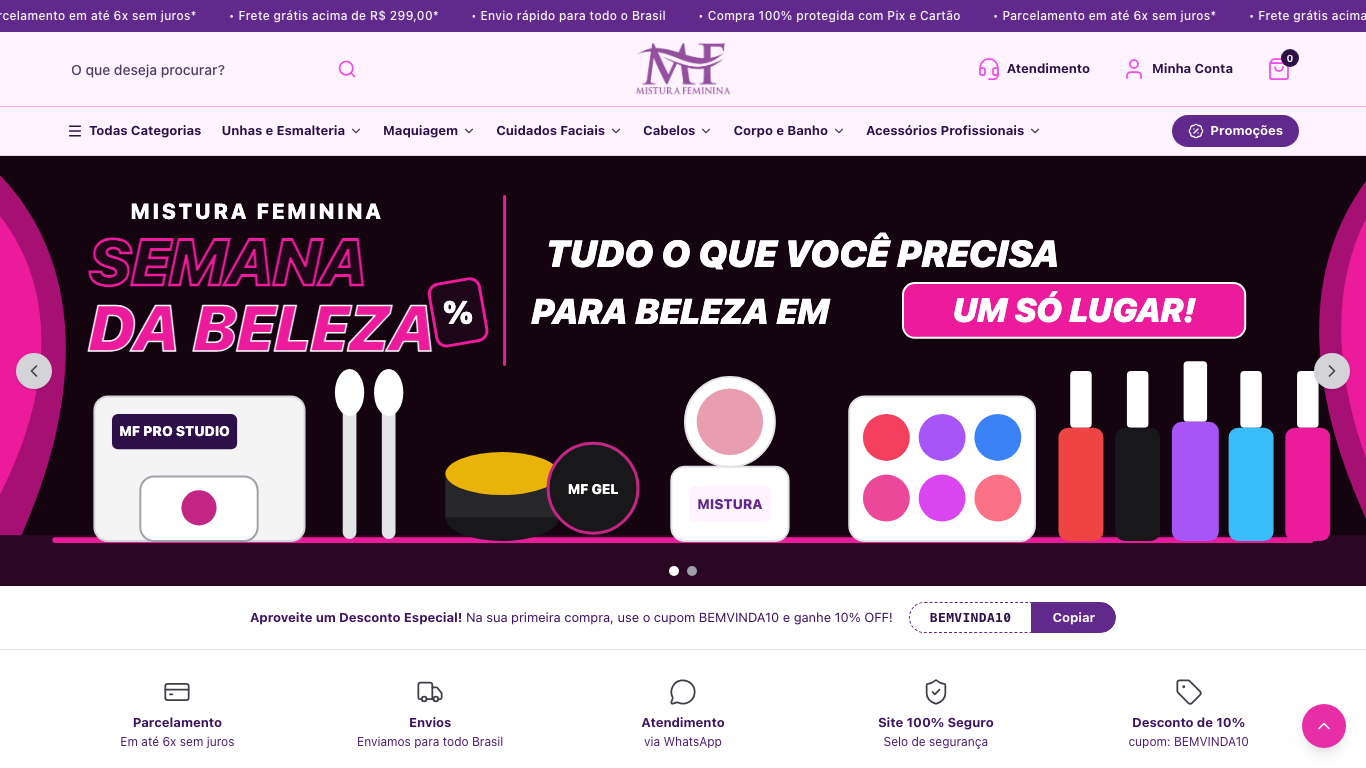
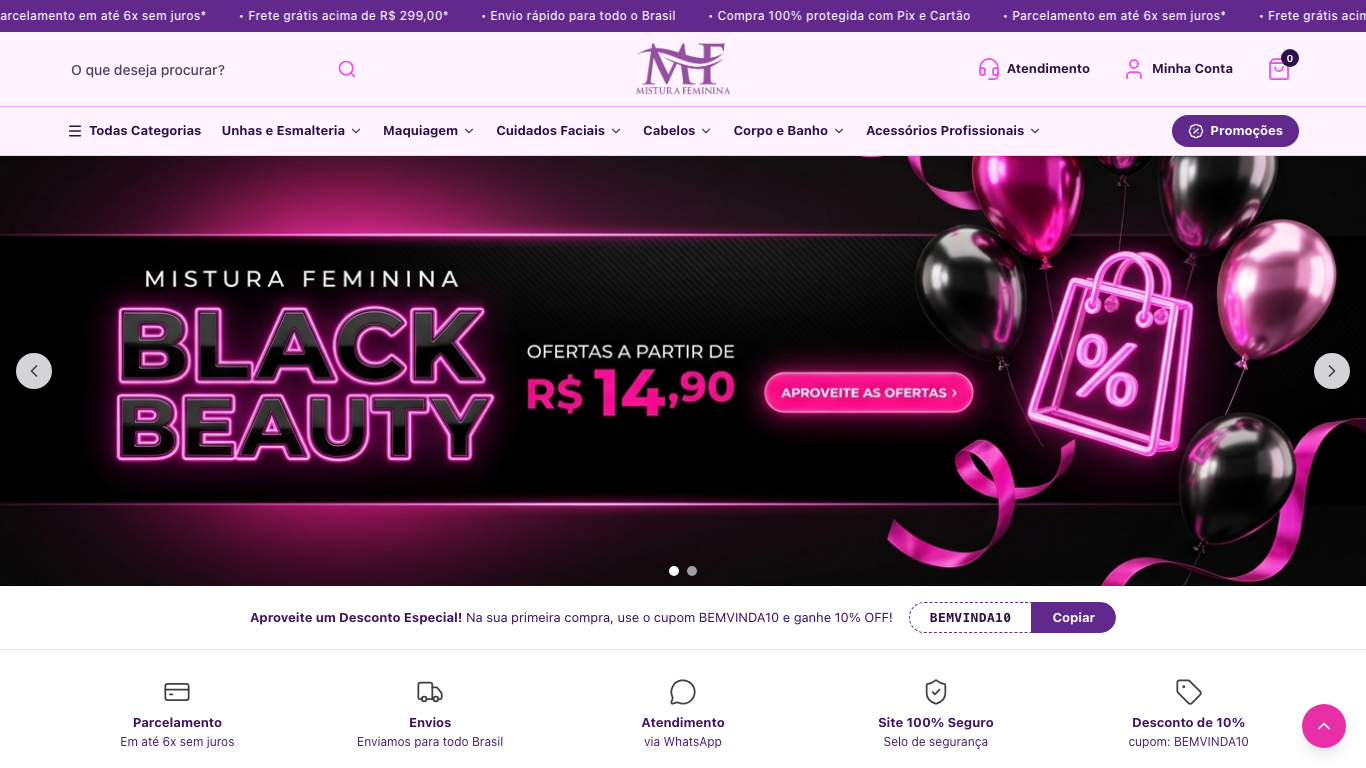
feat(assets): replace seed SVGs with real hero, promo, category and product photography

diff --git a/frontend/src/routes/index.tsx b/frontend/src/routes/index.tsx
@@ -128,7 +128,11 @@ function HeroCarouselBlock(props: { banners: BannerData[] }) {
                 <img
                   src={assetUrl(banner().desktop_image_path)}
                   alt={banner().alt_text || banner().title}
-                  class="block h-[220px] w-full object-cover object-center sm:h-[340px] lg:h-[430px]"
+                  class={
+                    banner().mobile_image_path
+                      ? "block aspect-[3/4] max-h-[520px] w-full object-cover object-center md:aspect-auto md:h-[360px] lg:h-[430px]"
+                      : "block h-[220px] w-full object-cover object-center sm:h-[340px] lg:h-[430px]"
+                  }
                 />
               </picture>
             );
@@ -765,7 +769,7 @@ function StorefrontHomePage() {
                           <img
                             src={assetUrl(banner.desktop_image_path)}
                             alt={banner.alt_text || banner.title}
-                            class="h-44 w-full object-cover sm:h-52"
+                            class="aspect-[5/2] w-full object-cover"
                             loading="lazy"
                           />
                         </a>

diff --git a/backend/database/seeders/DemoStoreSeeder.php b/backend/database/seeders/DemoStoreSeeder.php
@@ -445,12 +445,12 @@ class DemoStoreSeeder extends Seeder
     private function seedCategories(): array
     {
         $roots = [
-            ['slug' => 'unhas-e-esmalteria', 'name' => 'Unhas e Esmalteria', 'icon' => 'sparkles', 'image_path' => '/storage/seed/cat-unhas.svg', 'order' => 1],
-            ['slug' => 'maquiagem', 'name' => 'Maquiagem', 'icon' => 'heart', 'image_path' => '/storage/seed/cat-maquiagem.svg', 'order' => 2],
-            ['slug' => 'skincare', 'name' => 'Cuidados Faciais', 'icon' => 'droplet', 'image_path' => '/storage/seed/cat-facial.svg', 'order' => 3],
-            ['slug' => 'cabelos', 'name' => 'Cabelos', 'icon' => 'sun', 'image_path' => '/storage/seed/cat-cabelos.svg', 'order' => 4],
-            ['slug' => 'corpo-e-banho', 'name' => 'Corpo e Banho', 'icon' => 'flower', 'image_path' => '/storage/seed/cat-corpo.svg', 'order' => 5],
-            ['slug' => 'acessorios-pro', 'name' => 'Acessórios Profissionais', 'icon' => 'briefcase', 'image_path' => '/storage/seed/cat-acessorios.svg', 'order' => 6],
+            ['slug' => 'unhas-e-esmalteria', 'name' => 'Unhas e Esmalteria', 'icon' => 'sparkles', 'image_path' => '/storage/seed/cat-unhas.jpg', 'order' => 1],
+            ['slug' => 'maquiagem', 'name' => 'Maquiagem', 'icon' => 'heart', 'image_path' => '/storage/seed/cat-maquiagem.jpg', 'order' => 2],
+            ['slug' => 'skincare', 'name' => 'Cuidados Faciais', 'icon' => 'droplet', 'image_path' => '/storage/seed/cat-facial.jpg', 'order' => 3],
+            ['slug' => 'cabelos', 'name' => 'Cabelos', 'icon' => 'sun', 'image_path' => '/storage/seed/cat-cabelos.jpg', 'order' => 4],
+            ['slug' => 'corpo-e-banho', 'name' => 'Corpo e Banho', 'icon' => 'flower', 'image_path' => '/storage/seed/cat-corpo.jpg', 'order' => 5],
+            ['slug' => 'acessorios-pro', 'name' => 'Acessórios Profissionais', 'icon' => 'briefcase', 'image_path' => '/storage/seed/cat-acessorios.jpg', 'order' => 6],
         ];
 
         $map = [];
@@ -548,7 +548,7 @@ class DemoStoreSeeder extends Seeder
         $items = [
             [
                 'sku' => 'MF-ESM-001', 'slug' => 'esmalte-gel-alta-duracao-15ml', 'name' => 'Esmalte em Gel Alta Duração 15ml',
-                'brand' => 'lumiere-nails', 'cats' => ['unhas-e-esmalteria', 'esmaltes-em-gel', 'alongamento-e-geis'], 'img' => '/storage/seed/prod-esmalte.svg',
+                'brand' => 'lumiere-nails', 'cats' => ['unhas-e-esmalteria', 'esmaltes-em-gel', 'alongamento-e-geis'], 'img' => '/storage/seed/prod-esmalte.jpg',
                 'type' => ProductType::Variable, 'price' => 2490, 'promo' => 1690, 'featured' => true, 'new' => true, 'best' => true,
                 'short' => 'Cobertura intensa desde a primeira camada com brilho espelhado até 21 dias.',
                 'variants' => [
@@ -559,7 +559,7 @@ class DemoStoreSeeder extends Seeder
             ],
             [
                 'sku' => 'MF-SRM-002', 'slug' => 'serum-facial-niacinamida-acido-hialuronico', 'name' => 'Sérum Facial Niacinamida 10% + Hialurônico',
-                'brand' => 'mistura-lab', 'cats' => ['skincare', 'seruns-e-tratamentos'], 'img' => '/storage/seed/prod-serum.svg',
+                'brand' => 'mistura-lab', 'cats' => ['skincare', 'seruns-e-tratamentos'], 'img' => '/storage/seed/prod-serum.jpg',
                 'type' => ProductType::Variable, 'price' => 8990, 'promo' => 6490, 'featured' => true, 'new' => true, 'best' => true,
                 'short' => 'Controla oleosidade, suaviza poros e hidrata profundamente sem pesar.',
                 'wholesale' => true,
@@ -570,7 +570,7 @@ class DemoStoreSeeder extends Seeder
             ],
             [
                 'sku' => 'MF-BTM-003', 'slug' => 'batom-liquido-velvet-matte-4g', 'name' => 'Batom Líquido Velvet Matte Longa Duração',
-                'brand' => 'essencia-floral', 'cats' => ['maquiagem', 'labios'], 'img' => '/storage/seed/prod-batom.svg',
+                'brand' => 'essencia-floral', 'cats' => ['maquiagem', 'labios'], 'img' => '/storage/seed/prod-batom.jpg',
                 'type' => ProductType::Variable, 'price' => 3990, 'promo' => 2990, 'featured' => true, 'new' => false, 'best' => true,
                 'short' => 'Acabamento aveludado confortável com manteiga de karité e vitamina E.',
                 'variants' => [
@@ -580,73 +580,73 @@ class DemoStoreSeeder extends Seeder
             ],
             [
                 'sku' => 'MF-MSC-004', 'slug' => 'mascara-reconstrucao-capilar-queratina-300g', 'name' => 'Máscara Reconstrução Capilar Queratina Vegetal 300g',
-                'brand' => 'mistura-lab', 'cats' => ['cabelos', 'mascaras-de-tratamento'], 'img' => '/storage/seed/prod-mascara.svg',
+                'brand' => 'mistura-lab', 'cats' => ['cabelos', 'mascaras-de-tratamento'], 'img' => '/storage/seed/prod-mascara.jpg',
                 'type' => ProductType::Simple, 'price' => 7490, 'promo' => 5490, 'featured' => true, 'new' => false, 'best' => true, 'stock' => 32,
                 'short' => 'Reposição de massa para fios quimicamente tratados com brilho imediato.',
             ],
             [
                 'sku' => 'MF-OLE-005', 'slug' => 'oleo-reparador-pontas-argan-marula-60ml', 'name' => 'Óleo Reparador de Pontas Argan & Marula 60ml',
-                'brand' => 'essencia-floral', 'cats' => ['cabelos', 'oleos-e-reparadores'], 'img' => '/storage/seed/prod-oleo.svg',
+                'brand' => 'essencia-floral', 'cats' => ['cabelos', 'oleos-e-reparadores'], 'img' => '/storage/seed/prod-oleo.jpg',
                 'type' => ProductType::Simple, 'price' => 5990, 'promo' => null, 'featured' => true, 'new' => true, 'best' => false, 'stock' => 24,
                 'short' => 'Sela cutículas, reduz frizz e oferece proteção térmica até 230°C.',
             ],
             [
                 'sku' => 'MF-HID-006', 'slug' => 'locao-hidratante-corporal-rosas-200ml', 'name' => 'Loção Hidratante Corporal Pétalas & Karité 200ml',
-                'brand' => 'essencia-floral', 'cats' => ['corpo-e-banho', 'hidratantes-corporais', 'autocuidado-diario'], 'img' => '/storage/seed/prod-hidratante.svg',
+                'brand' => 'essencia-floral', 'cats' => ['corpo-e-banho', 'hidratantes-corporais', 'autocuidado-diario'], 'img' => '/storage/seed/prod-hidratante.jpg',
                 'type' => ProductType::Simple, 'price' => 4890, 'promo' => 3690, 'featured' => false, 'new' => true, 'best' => true, 'stock' => 19,
                 'short' => 'Toque seco com absorção rápida e fragrância floral sofisticada.',
             ],
             [
                 'sku' => 'MF-CAB-007', 'slug' => 'cabine-led-uv-profissional-48w-bivolt', 'name' => 'Cabine LED/UV Profissional 48W Bivolt Sensor Automático',
-                'brand' => 'studio-pro', 'cats' => ['acessorios-pro', 'cabines-e-estufas', 'unhas-e-esmalteria', 'alongamento-e-geis'], 'img' => '/storage/seed/prod-cabine.svg',
+                'brand' => 'studio-pro', 'cats' => ['acessorios-pro', 'cabines-e-estufas', 'unhas-e-esmalteria', 'alongamento-e-geis'], 'img' => '/storage/seed/prod-cabine.jpg',
                 'type' => ProductType::Simple, 'price' => 16990, 'promo' => 13490, 'featured' => true, 'new' => false, 'best' => true, 'stock' => 9, 'weight' => 650,
                 'short' => '36 LEDs duplos para secagem uniforme de gel, acrygel e blindagem.',
             ],
             [
                 'sku' => 'MF-PRM-008', 'slug' => 'primer-acido-preparador-unhas-15ml', 'name' => 'Primer Preparador Adesivador de Unhas 15ml',
-                'brand' => 'lumiere-nails', 'cats' => ['unhas-e-esmalteria', 'preparadores-e-primers', 'top-coat-e-finalizadores'], 'img' => '/storage/seed/prod-primer.svg',
+                'brand' => 'lumiere-nails', 'cats' => ['unhas-e-esmalteria', 'preparadores-e-primers', 'top-coat-e-finalizadores'], 'img' => '/storage/seed/prod-primer.jpg',
                 'type' => ProductType::Simple, 'price' => 2790, 'promo' => 1990, 'featured' => false, 'new' => false, 'best' => true, 'stock' => 45,
                 'short' => 'Garante aderência superior sem descolamentos em alongamentos.',
             ],
             [
                 'sku' => 'MF-BAS-009', 'slug' => 'base-fluida-soft-matte-efeito-segunda-pele', 'name' => 'Base Fluida Soft Matte Média Cobertura 30ml',
-                'brand' => 'mistura-lab', 'cats' => ['maquiagem', 'pele-e-bases'], 'img' => '/storage/seed/prod-base.svg',
+                'brand' => 'mistura-lab', 'cats' => ['maquiagem', 'pele-e-bases'], 'img' => '/storage/seed/prod-base.jpg',
                 'type' => ProductType::Simple, 'price' => 6990, 'promo' => 4990, 'featured' => true, 'new' => true, 'best' => false, 'stock' => 16,
                 'short' => 'Resistente à transferência e à umidade com vitamina E.',
             ],
             [
                 'sku' => 'MF-BRM-010', 'slug' => 'bruma-fixadora-glow-agua-termal-120ml', 'name' => 'Bruma Fixadora Hidratante Água Termal 120ml',
-                'brand' => 'essencia-floral', 'cats' => ['maquiagem', 'skincare', 'pele-e-bases', 'brumas-e-fixadores', 'hidratantes-faciais'], 'img' => '/storage/seed/prod-bruma.svg',
+                'brand' => 'essencia-floral', 'cats' => ['maquiagem', 'skincare', 'pele-e-bases', 'brumas-e-fixadores', 'hidratantes-faciais'], 'img' => '/storage/seed/prod-bruma.jpg',
                 'type' => ProductType::Simple, 'price' => 4590, 'promo' => null, 'featured' => false, 'new' => true, 'best' => false, 'stock' => 14,
                 'short' => 'Prolonga a maquiagem e revitaliza o viço ao longo do dia.',
             ],
             [
                 'sku' => 'MF-PIN-011', 'slug' => 'kit-pinceis-maquiagem-profissional-8-pecas', 'name' => 'Kit Pincéis Profissionais Cerdas Macias 8 Peças',
-                'brand' => 'studio-pro', 'cats' => ['acessorios-pro', 'pinceis-profissionais', 'brocas-e-lixas', 'brocas-ceramica', 'lixas-profissionais', 'maquiagem'], 'img' => '/storage/seed/prod-pincel.svg',
+                'brand' => 'studio-pro', 'cats' => ['acessorios-pro', 'pinceis-profissionais', 'brocas-e-lixas', 'brocas-ceramica', 'lixas-profissionais', 'maquiagem'], 'img' => '/storage/seed/prod-pincel.jpg',
                 'type' => ProductType::Simple, 'price' => 11990, 'promo' => 8990, 'featured' => false, 'new' => true, 'best' => false, 'stock' => 0,
                 'short' => 'Cerdas sintéticas de alta densidade para acabamento polido (item para testar Avise-me quando esgotado).',
             ],
             [
                 'sku' => 'MF-KIT-012', 'slug' => 'kit-cronograma-capilar-reconstrucao-brilho', 'name' => 'Kit Capilar Reconstrução + Óleo Reparador',
-                'brand' => 'mistura-lab', 'cats' => ['cabelos', 'kits-capilares'], 'img' => '/storage/seed/prod-kit.svg',
+                'brand' => 'mistura-lab', 'cats' => ['cabelos', 'kits-capilares'], 'img' => '/storage/seed/prod-kit.jpg',
                 'type' => ProductType::Kit, 'price' => 13480, 'promo' => 9990, 'featured' => true, 'new' => true, 'best' => true, 'stock' => 10,
                 'short' => 'Combo completo com Máscara Reconstrução 300g + Óleo Reparador 60ml com desconto especial.',
             ],
             [
                 'sku' => 'MF-ESM-013', 'slug' => 'esmalte-em-gel-cintilante-perola-10ml', 'name' => 'Esmalte em Gel Cintilante Pérola 10ml',
-                'brand' => 'lumiere-nails', 'cats' => ['unhas-e-esmalteria', 'esmaltes-em-gel'], 'img' => '/storage/seed/prod-esmalte-perola.svg',
+                'brand' => 'lumiere-nails', 'cats' => ['unhas-e-esmalteria', 'esmaltes-em-gel'], 'img' => '/storage/seed/prod-esmalte-perola.jpg',
                 'type' => ProductType::Simple, 'price' => 1990, 'promo' => 1490, 'featured' => false, 'new' => false, 'best' => true, 'stock' => 35,
                 'short' => 'Acabamento perolado de longa duração com secagem rápida em cabine LED/UV.',
             ],
             [
                 'sku' => 'MF-ESM-014', 'slug' => 'esmalte-em-gel-reflexivo-glitter-10ml', 'name' => 'Esmalte em Gel Reflexivo Glitter 10ml',
-                'brand' => 'lumiere-nails', 'cats' => ['unhas-e-esmalteria', 'esmaltes-em-gel'], 'img' => '/storage/seed/prod-esmalte-glitter.svg',
+                'brand' => 'lumiere-nails', 'cats' => ['unhas-e-esmalteria', 'esmaltes-em-gel'], 'img' => '/storage/seed/prod-esmalte-glitter.jpg',
                 'type' => ProductType::Simple, 'price' => 2290, 'promo' => null, 'featured' => false, 'new' => false, 'best' => false, 'stock' => 28,
                 'short' => 'Partículas refletivas de brilho intenso para encapsulamento e esmaltação.',
             ],
             [
                 'sku' => 'MF-ESM-015', 'slug' => 'esmalte-em-gel-quadrado-noir-10ml', 'name' => 'Esmalte em Gel Quadrado Noir 10ml',
-                'brand' => 'lumiere-nails', 'cats' => ['unhas-e-esmalteria', 'esmaltes-em-gel'], 'img' => '/storage/seed/prod-esmalte-noir.svg',
+                'brand' => 'lumiere-nails', 'cats' => ['unhas-e-esmalteria', 'esmaltes-em-gel'], 'img' => '/storage/seed/prod-esmalte-noir.jpg',
                 'type' => ProductType::Simple, 'price' => 1890, 'promo' => null, 'featured' => false, 'new' => false, 'best' => false, 'stock' => 0,
                 'short' => 'Preto pigmentado cobertura única (disponível para aviso de reposição).',
             ],
@@ -832,10 +832,10 @@ class DemoStoreSeeder extends Seeder
     private function seedContent(): void
     {
         $banners = [
-            ['title' => 'Semana da Beleza Mistura Feminina', 'placement' => 'hero', 'desktop' => '/storage/seed/hero-1-desktop.svg', 'mobile' => '/storage/seed/hero-1-mobile.svg', 'alt' => 'Semana da Beleza Mistura Feminina', 'cta' => 'Ver ofertas', 'url' => '/promocoes', 'order' => 1],
-            ['title' => 'Cuidados Faciais e Corporais', 'placement' => 'hero', 'desktop' => '/storage/seed/hero-2-desktop.svg', 'mobile' => '/storage/seed/hero-2-mobile.svg', 'alt' => 'Cuidados Faciais e Corporais Mistura Feminina', 'cta' => 'Explorar Skincare', 'url' => '/categoria/skincare', 'order' => 2],
-            ['title' => 'Unhas em Gel Profissionais', 'placement' => 'promo_grid', 'desktop' => '/storage/seed/promo-1.svg', 'mobile' => '/storage/seed/promo-1.svg', 'alt' => 'Linha Unhas e Gel Mistura Feminina', 'cta' => 'Conferir', 'url' => '/categoria/unhas-e-esmalteria', 'order' => 1],
-            ['title' => 'Kits com Economia Garantida', 'placement' => 'promo_grid', 'desktop' => '/storage/seed/promo-2.svg', 'mobile' => '/storage/seed/promo-2.svg', 'alt' => 'Kits com Desconto Mistura Feminina', 'cta' => 'Ver kits', 'url' => '/categoria/kits-capilares', 'order' => 2],
+            ['title' => 'Semana da Beleza Mistura Feminina', 'placement' => 'hero', 'desktop' => '/storage/seed/hero-1-desktop.jpg', 'mobile' => '/storage/seed/hero-1-mobile.jpg', 'alt' => 'Semana da Beleza Mistura Feminina', 'cta' => 'Ver ofertas', 'url' => '/promocoes', 'order' => 1],
+            ['title' => 'Cuidados Faciais e Corporais', 'placement' => 'hero', 'desktop' => '/storage/seed/hero-2-desktop.jpg', 'mobile' => '/storage/seed/hero-2-mobile.jpg', 'alt' => 'Cuidados Faciais e Corporais Mistura Feminina', 'cta' => 'Explorar Skincare', 'url' => '/categoria/skincare', 'order' => 2],
+            ['title' => 'Unhas em Gel Profissionais', 'placement' => 'promo_grid', 'desktop' => '/storage/seed/promo-1.jpg', 'mobile' => '/storage/seed/promo-1.jpg', 'alt' => 'Linha Unhas e Gel Mistura Feminina', 'cta' => 'Conferir', 'url' => '/categoria/unhas-e-esmalteria', 'order' => 1],
+            ['title' => 'Kits com Economia Garantida', 'placement' => 'promo_grid', 'desktop' => '/storage/seed/promo-2.jpg', 'mobile' => '/storage/seed/promo-2.jpg', 'alt' => 'Kits com Desconto Mistura Feminina', 'cta' => 'Ver kits', 'url' => '/categoria/kits-capilares', 'order' => 2],
         ];
         foreach ($banners as $b) {
             Banner::query()->updateOrCreate(
